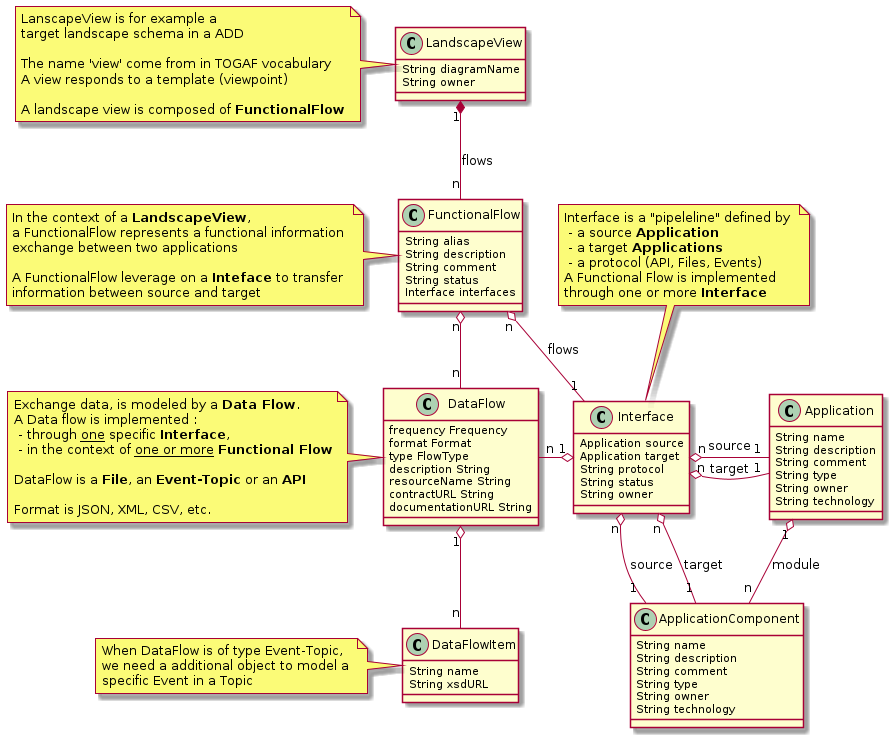
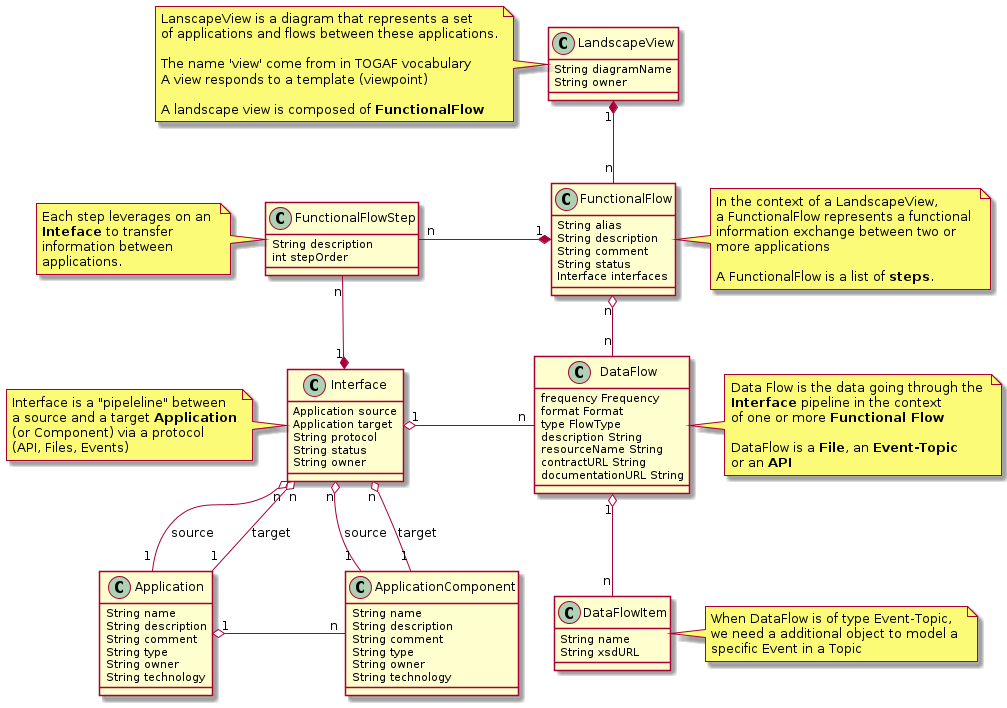
add Steps in model documentation

diff --git a/src/main/webapp/app/core/home/home.vue b/src/main/webapp/app/core/home/home.vue
@@ -16,15 +16,15 @@
         <ul>
           <li>
             A <router-link to="landscape-view">Landscape</router-link> is an architecture diagram that represents a subset of
-            <router-link to="application">Application</router-link>, and their Functional Flow
+            <router-link to="application">Applications</router-link>, and their Functional Flows
           </li>
           <li>
             In the context of a Landscape, a <router-link to="functional-flow">Functional Flow</router-link> represents a functional
-            information exchange between two applications
+            information exchange between two ore more applications
           </li>
           <li>
-            A Functional Flow is implemented through one or more <router-link to="flow-interface">Interface</router-link> to transfer
-            information between source and target.
+            A Functional Flow is implemented through one or more <router-link to="flow-interface">Interfaces</router-link> to transfer
+            information between a source and a target Application.
           </li>
           <li>
             Interface is a "pipeline" between two applications and it's fully defined by a source and a target Application and a

diff --git a/documentation/metamodel/README.md b/documentation/metamodel/README.md
@@ -27,7 +27,7 @@ What an application is? There is no obvious reponse. But anyway, you need a abst
 
 ## Functional Flows
 
-In the context of a **Landscape**, a Functional Flow represents a functional information exchange between two applications
+In the context of a **Landscape**, a Functional Flow represents a functional information exchange between two or more applications
 
 <br/>
 
@@ -37,10 +37,12 @@ In the context of a **Landscape**, a Functional Flow represents a functional inf
 >
 > ![flow view](png/plantuml-functionalflow/plantuml-functionalflow.png)
 
+FunctionalFlow is a list of **steps**, each step leverages on an **Interface**
+
 
 ## Interfaces
 
-A Functional Flow is implemented through one or more **Interface** to transfer information between source and target.
+A Functional Flow is implemented through one or more **Interfaces** to transfer information between source and target.
 
 Interface is a "pipeline" between two applications and it's fully defined by :
 - a source **Application**
